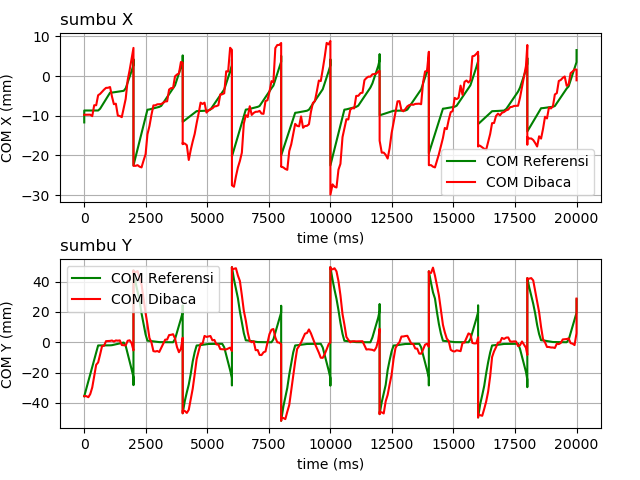
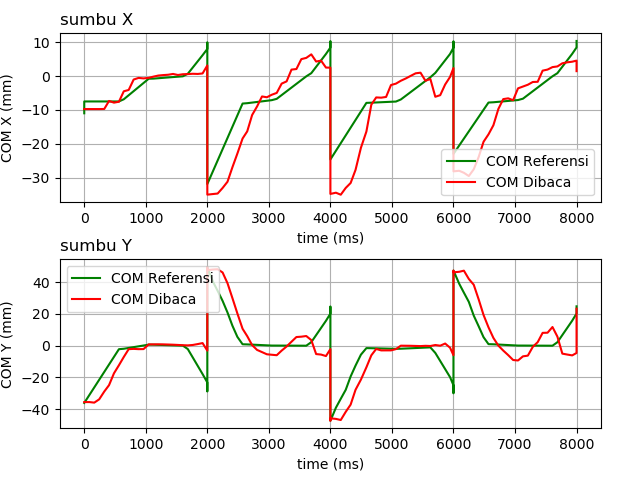
jalan

diff --git a/scripts/main.py b/scripts/main.py
@@ -71,6 +71,9 @@ TORQUE_DISABLE              = 0                 # Value for disabling the torque
 
 
 ##-----------------------Posisi default-----------------------------------
+hip = 0
+eng = 0
+
 dxl.append(servo.Servo(205,1,portHandler,packetHandler)) 
 dxl.append(servo.Servo(818,2,portHandler,packetHandler)) 
 dxl.append(servo.Servo(279,3,portHandler,packetHandler))
@@ -81,12 +84,12 @@ dxl.append(servo.Servo(358,7,portHandler,packetHandler))
 dxl.append(servo.Servo(658,8,portHandler,packetHandler)) #666
 dxl.append(servo.Servo(516,9,portHandler,packetHandler)) 
 dxl.append(servo.Servo(516,10,portHandler,packetHandler))
-dxl.append(servo.Servo(508,11,portHandler,packetHandler)) 
-dxl.append(servo.Servo(508,12,portHandler,packetHandler)) 
+dxl.append(servo.Servo(508-hip,11,portHandler,packetHandler)) 
+dxl.append(servo.Servo(508+hip,12,portHandler,packetHandler)) 
 dxl.append(servo.Servo(513,13,portHandler,packetHandler)) 
 dxl.append(servo.Servo(513,14,portHandler,packetHandler)) 
-dxl.append(servo.Servo(518,15,portHandler,packetHandler))  #515
-dxl.append(servo.Servo(502,16,portHandler,packetHandler)) #505
+dxl.append(servo.Servo(518+eng,15,portHandler,packetHandler))  #515
+dxl.append(servo.Servo(502-eng,16,portHandler,packetHandler)) #505
 dxl.append(servo.Servo(516,17,portHandler,packetHandler)) 
 dxl.append(servo.Servo(516,18,portHandler,packetHandler))
 
@@ -277,7 +280,7 @@ while 1:
 # wb.save(loc)
 # ##              -----------------------------------------------------------------------------------------
 
-##=============================coba pola dengan kendali LQR==============
+##=============================coba pola dengan kendali LQR dipake==============
 invers(robot,dxl,'ki',0,0,20,1)
 invers(robot,dxl,'ka',0,0,20,1)
 robot.syncWrite()
@@ -289,7 +292,7 @@ print("comDef",comDef)
 wait(0.1)
 # comDef["x"]=comDef["x"]+3
 
-comDefKi=comDef["x"]+3
+comDefKi=comDef["x"]+3.5
 comDefKa=comDef["x"]+4 #+5 com saat itu posisi nya kurang pas
 
 state1Roll=arctan(comNow["y"]/comNow["z"]) #masih dalam radian
@@ -302,7 +305,7 @@ while(1):
         break
 
 firstStep=1
-xGoal=[2,2,2,2,2,2,2,2,2,2] #5 langkah
+xGoal=[3,3,3,3] #,2,2,2,2,2,2,2,2] #5 langkah
 n=0
 base=-1 # -1 base kaki kiri, 1 base kaki kanan
 tsmp=0.1 #waktu sampling
@@ -377,7 +380,7 @@ while(1):
     if t/1000000>=tsup +0.08: 
         print("==========================langkah ke-"+ str(n+1)+" selesai===========================")
         base=base*(-1) # switch kaki tumpu
-        wait(0.3)
+        wait(0.8)
 
         #forward
         if base==-1: #tumpuan kaki kiri
@@ -473,7 +476,7 @@ axs[1].set_ylabel("COM Y (mm)")
 #--------------------------------------------------------
 
 plt.savefig('./src/program/data/data plot com vs ref com.png')
-# ##======================================================================
+# # ##======================================================================
 
 # # -----------------------------------coba pola dengan LQR---------------------------------
 # invers(robot,dxl,'ki',0,0,20,1)

diff --git a/scripts/rosCall.py b/scripts/rosCall.py
@@ -1193,7 +1193,7 @@ def walkUpdaterey(robot,dxl,t,tsup,base,xGoal,firstStep,lastStep,condition='norm
         t2=(tsup/2)+0.1
         y1=comYPolaPeriod[1]
         if firstStep==1:
-            y2=yg*0-2 #
+            y2=yg*0+1 #
             # Xt=comDef["x"]
             x1=comXPolaPeriod[1]
             # x2=comDef["x"]
@@ -1205,7 +1205,7 @@ def walkUpdaterey(robot,dxl,t,tsup,base,xGoal,firstStep,lastStep,condition='norm
             # Xt=comDef["x"]
             
             if base==-1:
-                y2=-1
+                y2=-2
                 x2=comDef["x"]
             elif base==1:
                 y2=0
@@ -1618,7 +1618,7 @@ def tuningLQRdiskrit(condition):
     D = np.array([[0 ,0],[0, 0],[0,0],[0,0]])
 
     if condition=='walk':
-        Q = np.array([[1400,0,0,0], #roll kiri
+        Q = np.array([[1000,0,0,0], #roll kiri
                     [0,1,0,0], 
                     [0,0,600,0], #pitch kiri
                     [0,0,0,1]])
